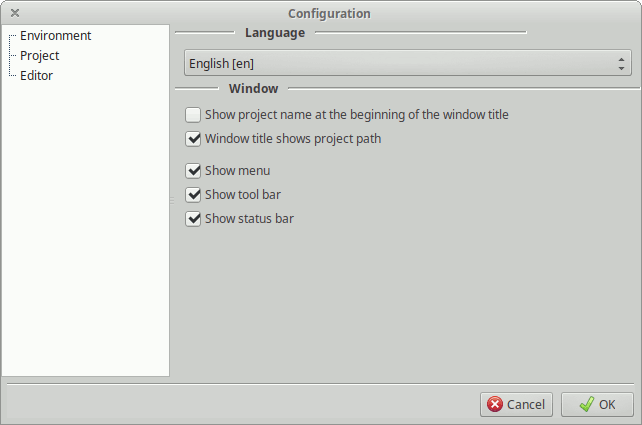
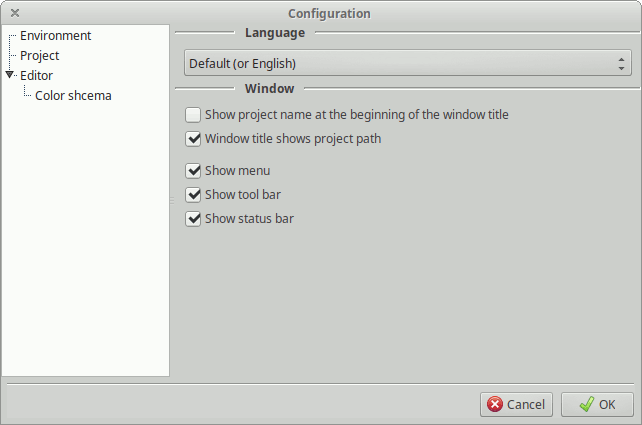
* User manual updated.

diff --git a/docs/usermanual/html/basics.html b/docs/usermanual/html/basics.html
@@ -10,9 +10,11 @@
  </head>
  <body>
   <h1 id="first-steps">First Steps</h1>
+
   <h2 id="mlsde-overview">MLSDE Overview</h2>
   <p>The first time you open MLSDE you&#39;ll see something similar to this:</p>
   <p><img src="images/first-view.png" alt="First execution"></p>
+
   <h2 id="configuration">Configuration</h2>
   <p>Before to start using MLSDE it is recommendable to open the <a href="configuration.html"><em>Configuration
   Dialog</em></a>.&nbsp; To do so select in the top menu <code>MLSDE &gt;
@@ -26,6 +28,7 @@
   appears telling that you need to restart MLSDE to make the changes effective.
   Close it.&nbsp; Close MLSDE clicking in the <em>Close Window</em> button or <code>MLSDE &gt; Quit</code>
   in the menu and open MLSDE again:  now it should use the selected language.</p>
+
   <h2 id="open-files">Open Files</h2>
   <p>To open a file you must open a <em>project</em> first.&nbsp; On MLSDE a project is a
   directory.</p>
@@ -42,6 +45,7 @@
   <p><img src="images/open-file.png" alt="Open file"></p>
   <p><strong>Pro tip:</strong> You can change the size of the project viewer and the editor by
   clicking and dragging the separator between them.</p>
+
   <h2 id="edit-files">Edit Files</h2>
   <p>Current version supports very basic edition.&nbsp; Select text by dragging the mouse
   and then use <code>Ctrl+C</code>, <code>Ctrl+X</code> and <code>Ctrl+V</code> to <em>copy</em>, <em>cut</em> and <em>paste</em>.</p>
@@ -49,11 +53,19 @@
   <p>Modified files are marked by an asterisk in the tab.&nbsp; Modified lines are marked
   with a yellow line in the left <em>gutter</em>.</p>
   <p><img src="images/modified-file.png" alt="Modified file"></p>
+
   <h2 id="save-files">Save Files</h2>
   <p>To save the modified files you can use the <code>File &gt; Save file</code> menu option or
   the <code>Save file</code> button.&nbsp; You can also save all modified files by selecting
   <code>Save all</code>.</p>
   <p><img src="images/save-file-menu.png" alt="Saving file">
   <img src="images/save-file-button.png" alt="Saving file"></p>
+
+  <h2 id="close-files">Close Files</h2>
+  <p>You can close the files by selecting <code>File &gt; Close current tab</code> menu option
+  (see above).  You can also selecting the <code>Close tab</code> button in the tool bar
+  or the <code>Project &gt; Close all tabs</code> menu option.</p>
+  <p><img src="images/close-tab-menu.png" alt="Saving file">
+  <img src="images/close-tab-button.png" alt="Saving file"></p>
  </body>
 </html>

diff --git a/docs/usermanual/html/cfg-editor.html b/docs/usermanual/html/cfg-editor.html
@@ -18,10 +18,24 @@
     <li><strong>Each nth line number.</strong>  Tells what line numbers to show.  For example, if
     it is 10 then only lines multiples of 10 will be shown (10, 20, 30, 40...).
     The line were the cursor is is shown always.</li>
+    <li><strong>Show change marks.</strong> Tells if gutter will show marks to indicate the lines
+    that you changed (i.e. edited).</li>
     <li><strong>Editor text font.</strong>  Shows the name of the text font used by the editor.
     Click the button with the <code>...</code> on the right to open the font selector dialog.</li>
     <li><strong>Font size.</strong>  Allows to change the font size.  Note that it can be select
     form the font selector dialog too.</li>
   </ul>
+
+  <h2 id="color-schema">Color schema</h2>
+  <p><img src="images/cfg-color.png" alt="Color schema configuration"></p>
+  <p>This section allows you to select the color schema used by the syntax
+  highlighting.</p>
+  <p>You can select a predefined schema from the drop box at the top.</p>
+  <p><img src="images/cfg-color-schema.png" alt="Predefined color schema selection"></p>
+  <p>Then you can select the token type you want to highlight in the list and
+  select colors and styles at the bottom.  Use the <code>None</code> color if you want
+  to use the default one.</p>
+  <p><img src="images/cfg-color-select.png" alt="Selectiong a color for Symbols"></p>
+  <p>Used color schema is saved in the user directory as <code>custom.csd</code>.</p>
  </body>
 </html>

diff --git a/docs/usermanual/html/languages.html b/docs/usermanual/html/languages.html
@@ -12,5 +12,10 @@
   <h1 id="languages">Languages</h1>
   <p>MLSDE will identify the language by the file extension.&nbsp;  The name will be shown in the status bar, on the left.</p>
   <p>If you click in the language name in the status bar, a dialog with all available languages will appear.&nbsp;  Select one and press <code>Ok</code> to select it.</p>
+  <p><img src="images/status-bar-language.png" alt="Click in the status bar"> <br/> <img src="images/language-selector.png" alt="Select the language from list"></p>
+
+  <h2 id="language-definitions">Language definitions</h2>
+  <p>Except for a few built-in languages, MLSDE loads the language definitions from files.  Such files are in the <a href="concepts.html#the-directories">application data</a>.</p>
+  <p>You can add more languages in that directory or in a subdirectory named <code>syntaxis</code> inside the <a href="concepts.html#the-directories">user directory</a>.  The files are plain text files;  I&#39;ll explain them in the future but you can use one of the given files as template.</p>
  </body>
 </html>

diff --git a/docs/usermanual/html/toc.html b/docs/usermanual/html/toc.html
@@ -42,8 +42,10 @@
 	<li><a href="basics.html#open-files" target="content">Open Files</a></li>
 	<li><a href="basics.html#edit-files" target="content">Edit Files</a></li>
 	<li><a href="basics.html#save-files" target="content">Save Files</a></li>
+	<li><a href="basics.html#close-files" target="content">Close Files</a></li>
       </ul></li>
       <li><a href="languages.html" target="content">Languages</a><ul>
+	<li><a href="Languages.html#language-defininitions">Language definitions</a></li>
       </ul></li>
     </ul>
     <h2>Configuration</h2>
@@ -57,6 +59,7 @@
 	<li><a href="cfg-project.html#files-and-directories" target="content">Files and Directories</a></li>
       </ul></li>
       <li><a href="cfg-editor.html" target="content">Source Editor Configuration</a><ul>
+	<li><a href="cfg-editor.html#color-schema" target="content">Color schema</a><ul>
       </ul></li>
     </ul>
     <h2>Advanced</h2>

diff --git a/docs/usermanual/html/configuration.html b/docs/usermanual/html/configuration.html
@@ -13,7 +13,8 @@
   <p>To open the Configuration Dialog just select <code>MLSDE &gt; Configuration...</code> on the
   main menu.</p>
   <p><img src="images/menu-cfg.png" alt="Configuration option"></p>
-  <p>You can also press <code>[Ctrl]+[Alt]+[F10]</code>.</p>
+  <p>You can also press <code>[Ctrl]+[Alt]+[F10]</code>.  <em><strong>Note:</strong> That would not work on
+Linux.  A fix is on the way.</em></p>
   <p>The configuration dialog is divided in two parts:  The <em>configuration sections</em>
   on the left and the <em>configuration options</em> on the right.</p>
   <p><img src="images/cfg-dialog.png" alt="Configuration dialog"></p>

diff --git a/docs/usermanual/src/cfg-editor.md b/docs/usermanual/src/cfg-editor.md
@@ -8,8 +8,29 @@ This section allows to configure how the source editor looks.
   the line numbers and change marks.
 * **Each nth line number.**  Tells what line numbers to show.  For example, if
   it is 10 then only lines multiples of 10 will be shown (10, 20, 30, 40...).
-  The line were the cursor is is shown always.
+  The line were the cursor is is shown always.1
+* **Show change marks.**  Tells if gutter will show marks to indicate the lines
+  that you changed (i.e. edited).
 * **Editor text font.**  Shows the name of the text font used by the editor.
   Click the button with the `...` on the right to open the font selector dialog.
 * **Font size.**  Allows to change the font size.  Note that it can be select
   form the font selector dialog too.
+
+## Color schema ##
+
+![Color schema configuration](images/cfg-color.png)
+
+This section allows you to select the color schema used by the syntax
+highlighting.
+
+You can select a predefined schema from the drop box at the top.
+
+![Predefined color schema selection](images/cfg-color-schema.png)
+
+Then you can select the token type you want to highlight in the list and
+select colors and styles at the bottom.  Use the `None` color if you want
+to use the default one.
+
+![Selectiong a color for Symbols](images/cfg-color-select.png)
+
+Used color schema is saved in the user directory as `custom.csd`.

diff --git a/docs/usermanual/src/languages.md b/docs/usermanual/src/languages.md
@@ -4,3 +4,10 @@ MLSDE will identify the language by the file extension.  The name will be shown 
 
 If you click in the language name in the status bar, a dialog with all available languages will appear.  Select one and press ``Ok`` to select it.
 
+![Click in the status bar](images/status-bar-language.png) ![Select the language from list](images/language-selector.png)
+
+## Language definitions ##
+
+Except for a few built-in languages, MLSDE loads the language definitions from files.  Such files are in the [application data](concepts.html#the-directories).
+
+You can add more languages in that directory or in a subdirectory named `syntaxis` inside the [user directory](concepts.html#the-directories).  The files are plain text files;  I'll explain them in the future but you can use one of the given files as template.

diff --git a/docs/usermanual/src/basics.md b/docs/usermanual/src/basics.md
@@ -75,3 +75,12 @@ the `Save file` button.  You can also save all modified files by selecting
 
 ![Saving file](images/save-file-menu.png)
 ![Saving file](images/save-file-button.png)
+
+## Closing Files ##
+
+You can close the files by selecting `File > Close current tab` menu option
+(see above).  You can also selecting the `Close tab` button in the tool bar
+or the `Project > Close all tabs` menu option.
+
+![Saving file](images/close-tab-menu.png)
+![Saving file](images/close-tab-button.png)

diff --git a/docs/usermanual/src/configuration.md b/docs/usermanual/src/configuration.md
@@ -5,7 +5,8 @@ main menu.
 
 ![Configuration option](images/menu-cfg.png)
 
-You can also press `[Ctrl]+[Alt]+[F10]`.
+You can also press `[Ctrl]+[Alt]+[F10]`.  _**Note:** That would not work on
+Linux.  A fix is on the way._
 
 The configuration dialog is divided in two parts:  The _configuration sections_
 on the left and the _configuration options_ on the right.
